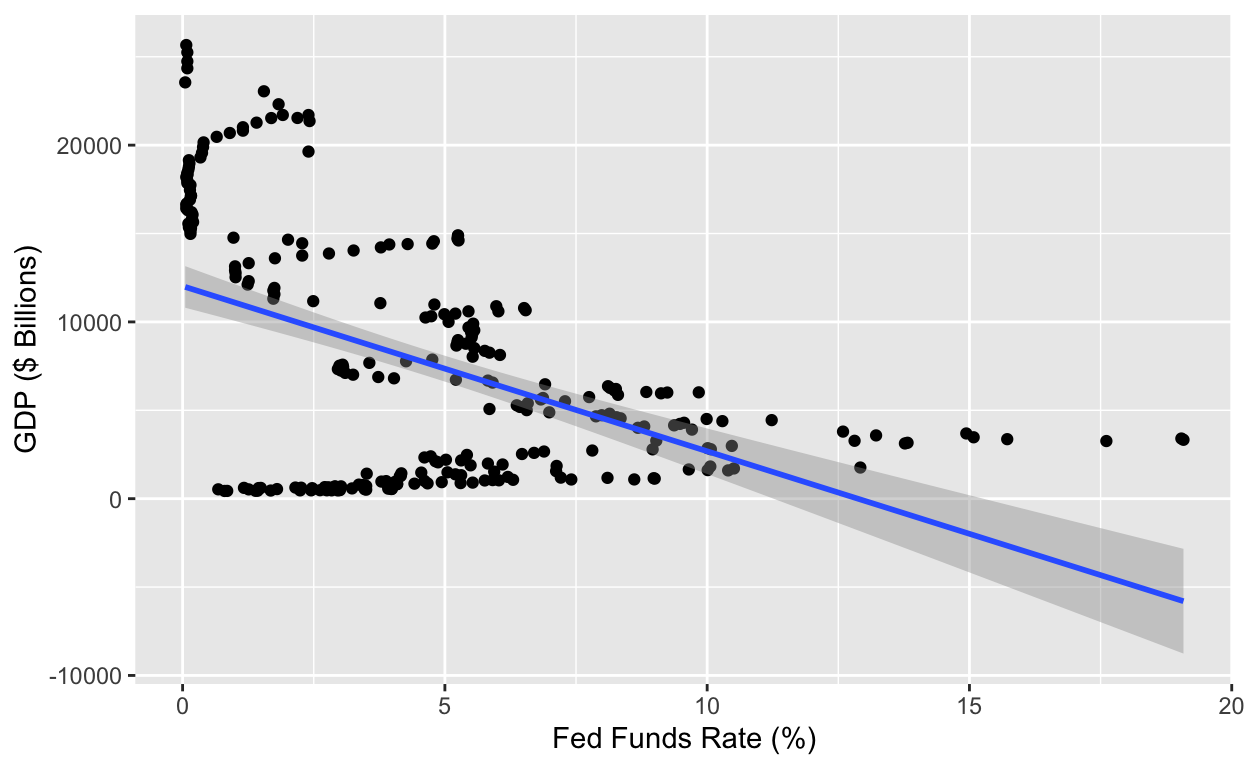
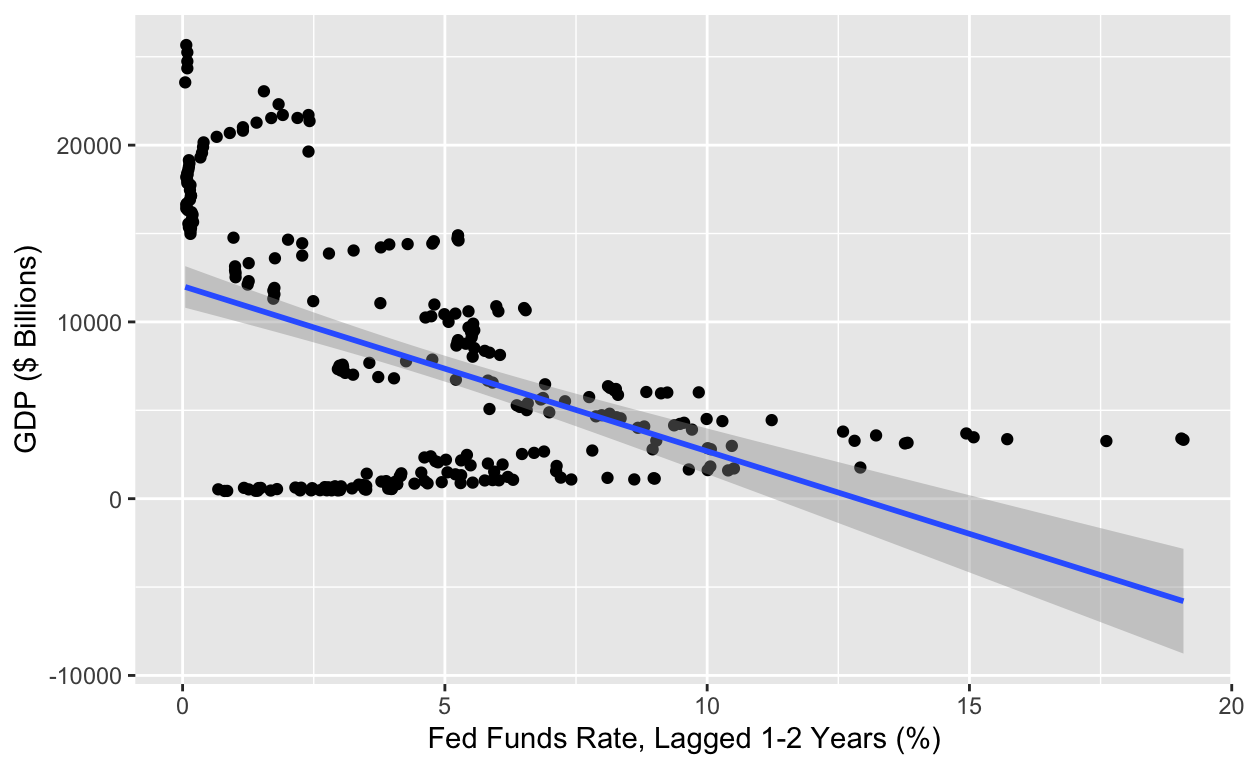
11/28/22

Changed region(s): [[0.3438, 0.9375, 0.75, 1.0]]

diff --git a/index.html b/index.html
@@ -1563,7 +1563,7 @@ Data on U.S. GDP by year since 1947 (the first year they were documented): <a hr
 <span><span class='va'>ggplot_regression</span> <span class='op'>&lt;-</span> <span class='fu'><a href='https://ggplot2.tidyverse.org/reference/ggplot.html'>ggplot</a></span><span class='op'>(</span>data <span class='op'>=</span> <span class='va'>GDP_And_Fed_Funds_Rates</span>, mapping <span class='op'>=</span> <span class='fu'><a href='https://ggplot2.tidyverse.org/reference/aes.html'>aes</a></span><span class='op'>(</span>x <span class='op'>=</span> <span class='va'>Rate_lag</span>, y <span class='op'>=</span> <span class='va'>GDP</span><span class='op'>)</span><span class='op'>)</span> <span class='op'>+</span></span>
 <span>  <span class='fu'><a href='https://ggplot2.tidyverse.org/reference/geom_point.html'>geom_point</a></span><span class='op'>(</span><span class='op'>)</span> <span class='op'>+</span></span>
 <span>  <span class='fu'><a href='https://ggplot2.tidyverse.org/reference/geom_smooth.html'>geom_smooth</a></span><span class='op'>(</span>method <span class='op'>=</span> <span class='st'>"lm"</span><span class='op'>)</span> <span class='op'>+</span></span>
-<span>  <span class='fu'><a href='https://ggplot2.tidyverse.org/reference/labs.html'>labs</a></span><span class='op'>(</span>x <span class='op'>=</span> <span class='st'>"Fed Funds Rate (%)"</span>,</span>
+<span>  <span class='fu'><a href='https://ggplot2.tidyverse.org/reference/labs.html'>labs</a></span><span class='op'>(</span>x <span class='op'>=</span> <span class='st'>"Fed Funds Rate, Lagged 1-2 Years (%)"</span>,</span>
 <span>       y <span class='op'>=</span> <span class='st'>"GDP ($ Billions)"</span><span class='op'>)</span></span></code></pre>
 </div>
 </div>
@@ -1574,7 +1574,7 @@ Data on U.S. GDP by year since 1947 (the first year they were documented): <a hr
 </div>
 <p><img src="index_files/figure-html5/unnamed-chunk-2-1.png" width="624" /></p>
 </div>
-<p>This plot of GDP over time shows how GDP has increased and grown in a linear fashion over time, growing from ~$2.5T in 1980 to ~$25T in 2022. This is the dependent variable in my study.</p>
+<p>This plot of GDP over time shows how GDP has increased and grown in a linear fashion over time, growing from ~$2.5T in 1980 to $25T in 2022. This is the dependent variable in my study.</p>
 <div class="layout-chunk" data-layout="l-body">
 <div class="sourceCode">
 <pre class="sourceCode r"><code class="sourceCode r"><span><span class='va'>ggplot_GDP_growth_rate</span></span></code></pre>
@@ -1705,7 +1705,7 @@ R2 Adj.
 </div>
 <p>This linear regression regression analysis shows a strong negative correlation between GDP and federal funds rates.</p>
 <p>In my regression analysis, the main coefficient of interest was the coefficient between the federal funds rate and GDP, which came out to -274 when accounting for lag, meaning that when interest rates increase by a full point, GDP decreases by $274B. This coefficient shows a strong negative relationship between the federal funds rates and GDP, and is statistically significant.</p>
-<p>I also ran the regression with the date in mind. The date coefficient was .86, meaning every time date increased by 1, GDP increased by $860M. This is in line with estimates, as GDP has steadily rose throughout time.</p>
+<p>I also ran the regression with the date in mind. The date coefficient was .862, meaning every time date increased by 1, GDP increased by $862M. This is in line with estimates, as GDP has steadily rose throughout time.</p>
 <p><strong>Summary:</strong> My results did support my hypothesis that there is a strong negative correlation between federal funds rates and GDP. A limitation of my analysis was that data has only been tracked for 68 years, which may not be enough time to show a causal relationship. Some threats to inference or confounding variables could be other macroeconomic factors in the environment that had effects on GDP, such as geopolitical events, trade wars, shortages/ surpluses of certain goods, or boom/ bust economic cycles. My analysis could be improved by gathering other data like the above that could have a confounding effect, and test that data for a null hypothesis to ensure that it did not have a confounding effect.</p>
 <p>The takeaway from this research project is that the Federal Reserve must be very careful, thoughtful, and sparing in their decision to change interest rates, as this has a profound effect on the U.S. and global economy. An increase in the interest rates that is not needed can adversely affect billions of lives around the world, which is why those at the Federal Reserve must be very calculated and responsible in their actions.</p>
 <div class="sourceCode" id="cb1"><pre class="sourceCode r distill-force-highlighting-css"><code class="sourceCode r"></code></pre></div>
